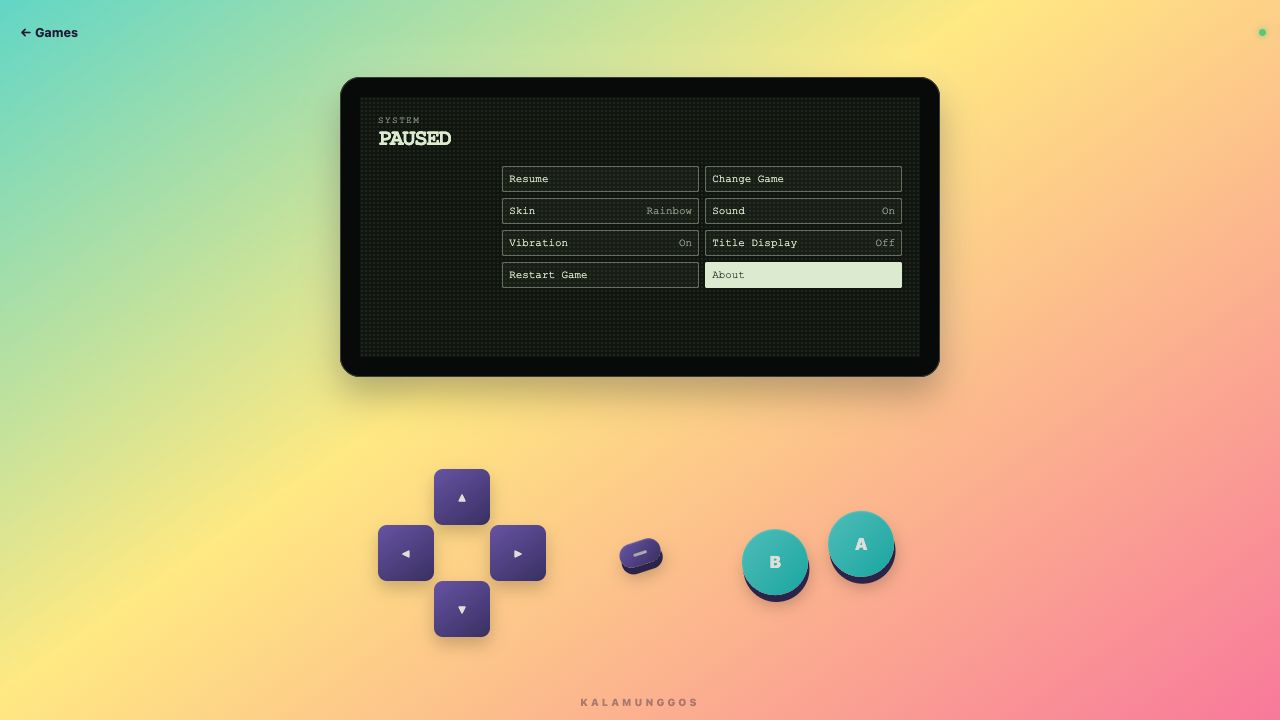
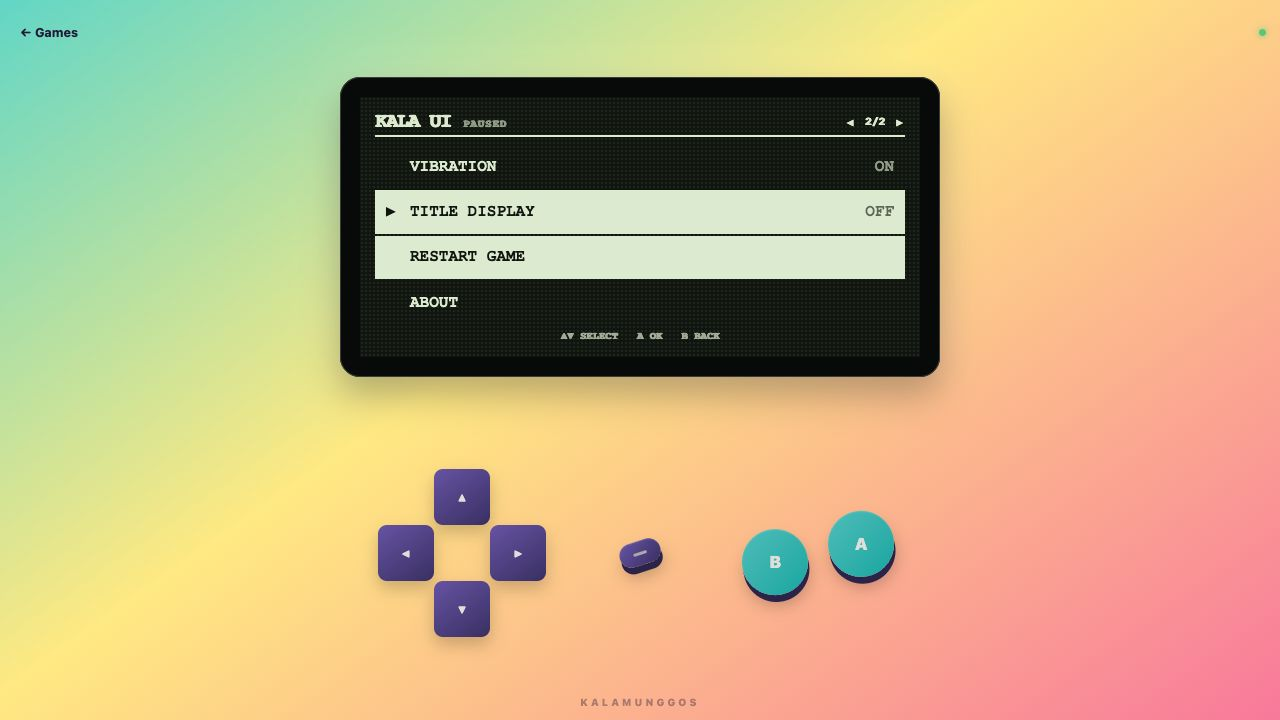
Make Kala UI cartridge-menu readable

Changed region(s): [[0.2812, 0.1528, 0.7188, 0.4278], [0.4375, 0.4583, 0.5625, 0.4889], [0.6562, 0.1528, 0.6875, 0.1833]]

diff --git a/src/main.ts b/src/main.ts
@@ -14,6 +14,9 @@ let animationFrame = 0;
 let lastGameFrame = 0;
 const heldButtons = new Set<ButtonName>();
 const releaseTimers = new Map<ButtonName, number>();
+const menuPageSize = 4;
+let selectedGameIndex = 0;
+let selectedMenuIndex = 0;
 
 root.innerHTML = `
   <main class="app-shell ${settings.skin === "white" ? "skin-white" : `skin-${settings.skin}`}">
@@ -32,25 +35,30 @@ root.innerHTML = `
             <canvas class="game-screen" width="128" height="64" aria-label="Game display" hidden></canvas>
             <section class="screen-ui game-library" aria-labelledby="library-title">
               <div class="firmware-heading">
-                <p>Kalamunggos</p>
-                <h1 id="library-title">Select game</h1>
+                <p>Kala UI</p>
+                <h1 id="library-title">Game select</h1>
               </div>
               <div class="game-list">
-                ${games.map((game, index) => `<button class="game-card" data-game="${game.id}"><span>0${index + 1}</span><strong>${game.displayName}</strong><small>Play</small></button>`).join("")}
+                ${games.map((game, index) => `<button class="game-card${index === 0 ? " is-selected" : ""}" data-game="${game.id}" aria-current="${index === 0 ? "true" : "false"}"><span class="selection-cursor" aria-hidden="true">▶</span><strong>${game.displayName}</strong></button>`).join("")}
               </div>
+              <p class="control-hint">D-PAD SELECT&nbsp;&nbsp; A PLAY</p>
             </section>
             <section class="screen-ui system-menu" hidden aria-labelledby="menu-title">
-              <div class="menu-heading"><span>System</span><h2 id="menu-title">Paused</h2></div>
+              <div class="menu-heading">
+                <div><h2 id="menu-title">Kala UI</h2><span>Paused</span></div>
+                <div class="page-controls"><button type="button" data-page="-1" aria-label="Previous settings page">◀</button><strong class="menu-page"></strong><button type="button" data-page="1" aria-label="Next settings page">▶</button></div>
+              </div>
               <div class="menu-actions">
                 <button data-action="resume">Resume</button>
                 <button data-action="games">Change Game</button>
-                <button data-action="skin">Skin <span class="skin-name"></span></button>
+                <button data-action="skin">Change Skin <span class="skin-name"></span></button>
                 <button data-action="sound">Sound <span class="sound-state"></span></button>
                 <button data-action="vibration">Vibration <span class="vibration-state"></span></button>
                 <button data-action="title">Title Display <span class="title-state"></span></button>
                 <button data-action="restart">Restart Game</button>
                 <button data-action="about">About</button>
               </div>
+              <p class="control-hint">▲▼ SELECT&nbsp;&nbsp; A OK&nbsp;&nbsp; B BACK</p>
               <section class="about" hidden></section>
             </section>
           </div>
@@ -83,6 +91,10 @@ const canvas = root.querySelector<HTMLCanvasElement>("canvas")!;
 const context = canvas.getContext("2d", { alpha: false })!;
 const menu = root.querySelector<HTMLElement>(".system-menu")!;
 const about = root.querySelector<HTMLElement>(".about")!;
+const gameButtons = [...root.querySelectorAll<HTMLButtonElement>("[data-game]")];
+const menuButtons = [...root.querySelectorAll<HTMLButtonElement>("[data-action]")];
+const menuPage = root.querySelector<HTMLElement>(".menu-page")!;
+const pageButtons = [...root.querySelectorAll<HTMLButtonElement>("[data-page]")];
 
 context.imageSmoothingEnabled = false;
 
@@ -103,6 +115,39 @@ function updateTitle(definition: GameDefinition): void {
   requestAnimationFrame(() => {
     title.classList.toggle("is-scrolling", title.scrollWidth > title.parentElement!.clientWidth);
   });
+}
+
+function wrapSelection(index: number, length: number): number {
+  return (index + length) % length;
+}
+
+function updateGameSelection(): void {
+  gameButtons.forEach((button, index) => {
+    const selected = index === selectedGameIndex;
+    button.classList.toggle("is-selected", selected);
+    button.setAttribute("aria-current", String(selected));
+  });
+}
+
+function updateMenuSelection(): void {
+  const pageIndex = Math.floor(selectedMenuIndex / menuPageSize);
+  const pageStart = pageIndex * menuPageSize;
+  menuButtons.forEach((button, index) => {
+    button.hidden = index < pageStart || index >= pageStart + menuPageSize;
+    const selected = index === selectedMenuIndex;
+    button.classList.toggle("is-selected", selected);
+    button.setAttribute("aria-current", String(selected));
+  });
+  menuPage.textContent = `${pageIndex + 1}/${Math.ceil(menuButtons.length / menuPageSize)}`;
+}
+
+function showMenu(): void {
+  if (!activeGame) return;
+  heldButtons.clear();
+  selectedMenuIndex = 0;
+  about.hidden = true;
+  menu.hidden = false;
+  updateMenuSelection();
 }
 
 function buttonMask(): number {
@@ -166,6 +211,8 @@ function showLibrary(): void {
   titleDisplay.hidden = true;
   backButton.hidden = true;
   library.hidden = false;
+  selectedGameIndex = 0;
+  updateGameSelection();
 }
 
 function setButton(button: ButtonName, pressed: boolean, element?: HTMLElement): void {
@@ -192,28 +239,60 @@ function releaseButton(button: ButtonName, element?: HTMLElement): void {
   }, 50));
 }
 
-root.querySelectorAll<HTMLButtonElement>("[data-game]").forEach((button) => {
-  button.addEventListener("click", () => void launch(getGame(button.dataset.game!)));
+gameButtons.forEach((button, index) => {
+  button.addEventListener("click", () => {
+    selectedGameIndex = index;
+    updateGameSelection();
+    void launch(getGame(button.dataset.game!));
+  });
 });
 
 backButton.addEventListener("click", showLibrary);
-root.querySelector<HTMLButtonElement>(".system-button")!.addEventListener("click", () => {
-  if (!activeGame) return;
-  heldButtons.clear();
-  menu.hidden = false;
-});
+root.querySelector<HTMLButtonElement>(".system-button")!.addEventListener("click", showMenu);
+
+function handleKalaInput(button: ButtonName): boolean {
+  if (!about.hidden) {
+    if (button === "a" || button === "b") about.hidden = true;
+    return true;
+  }
+  if (!library.hidden) {
+    if (button === "up" || button === "left") selectedGameIndex = wrapSelection(selectedGameIndex - 1, gameButtons.length);
+    if (button === "down" || button === "right") selectedGameIndex = wrapSelection(selectedGameIndex + 1, gameButtons.length);
+    if (button === "a") gameButtons[selectedGameIndex].click();
+    updateGameSelection();
+    return true;
+  }
+  if (!menu.hidden) {
+    if (button === "up" || button === "left") selectedMenuIndex = wrapSelection(selectedMenuIndex - 1, menuButtons.length);
+    if (button === "down" || button === "right") selectedMenuIndex = wrapSelection(selectedMenuIndex + 1, menuButtons.length);
+    if (button === "a") menuButtons[selectedMenuIndex].click();
+    if (button === "b") menu.hidden = true;
+    updateMenuSelection();
+    return true;
+  }
+  return false;
+}
 
 root.querySelectorAll<HTMLButtonElement>("[data-button]").forEach((button) => {
   const name = button.dataset.button as ButtonName;
   button.addEventListener("pointerdown", (event) => {
     event.preventDefault();
     button.setPointerCapture(event.pointerId);
+    if (handleKalaInput(name)) {
+      button.classList.add("is-pressed");
+      if (settings.vibration && "vibrate" in navigator) navigator.vibrate(12);
+      return;
+    }
     setButton(name, true, button);
   });
   for (const eventName of ["pointerup", "pointercancel", "lostpointercapture"] as const) {
     button.addEventListener(eventName, () => releaseButton(name, button));
   }
-  button.addEventListener("click", () => { setButton(name, true, button); releaseButton(name, button); });
+  button.addEventListener("click", (event) => {
+    if (event.detail !== 0) return;
+    if (!handleKalaInput(name)) setButton(name, true, button);
+    releaseButton(name, button);
+  });
 });
 
 const keyboardMap: Record<string, ButtonName> = {
@@ -222,10 +301,14 @@ const keyboardMap: Record<string, ButtonName> = {
 };
 window.addEventListener("keydown", (event) => {
   const button = keyboardMap[event.key];
-  if (button) { event.preventDefault(); setButton(button, true); }
-  if (event.key === "Escape" && activeGame && menu.hidden) {
-    heldButtons.clear();
-    menu.hidden = false;
+  if (button) {
+    event.preventDefault();
+    if (!event.repeat && !handleKalaInput(button)) setButton(button, true);
+  }
+  if (event.key === "Escape" && activeGame) {
+    if (!about.hidden) about.hidden = true;
+    else if (menu.hidden) showMenu();
+    else menu.hidden = true;
   }
 });
 window.addEventListener("keyup", (event) => {
@@ -238,9 +321,19 @@ window.addEventListener("blur", () => {
   heldButtons.clear();
 });
 
+pageButtons.forEach((button) => {
+  button.addEventListener("click", () => {
+    selectedMenuIndex = wrapSelection(selectedMenuIndex + Number(button.dataset.page) * menuPageSize, menuButtons.length);
+    updateMenuSelection();
+  });
+});
+
 menu.addEventListener("click", (event) => {
-  const action = (event.target as HTMLElement).closest<HTMLButtonElement>("[data-action]")?.dataset.action;
+  const actionButton = (event.target as HTMLElement).closest<HTMLButtonElement>("[data-action]");
+  const action = actionButton?.dataset.action;
   if (!action) return;
+  selectedMenuIndex = menuButtons.indexOf(actionButton);
+  updateMenuSelection();
   if (action === "resume") menu.hidden = true;
   if (action === "games") showLibrary();
   if (action === "skin") { settings = { ...settings, skin: nextSkin(settings.skin) }; updateSettingsUi(); }

diff --git a/src/styles.css b/src/styles.css
@@ -108,52 +108,67 @@ button { font: inherit; }
   background-image: radial-gradient(circle, rgba(220,235,207,.075) .75px, transparent .8px);
   background-size: 4px 4px;
   font-family: "Courier New", ui-monospace, monospace;
+  font-weight: 900;
+  text-transform: uppercase;
+  text-shadow: 1px 0 currentColor;
 }
 
-.game-library { display: grid; grid-template-columns: .7fr 1.3fr; gap: clamp(8px, 2.5vw, 22px); align-items: center; padding: clamp(10px, 3.5vw, 26px); }
-.firmware-heading p { margin: 0 0 4px; font-size: clamp(.42rem, 1.6vw, .68rem); font-weight: 700; letter-spacing: .16em; text-transform: uppercase; opacity: .58; }
-.firmware-heading h1 { margin: 0; font-size: clamp(.8rem, 4vw, 1.7rem); line-height: .9; letter-spacing: -.06em; text-transform: uppercase; }
-.game-list { display: grid; gap: clamp(4px, 1.2vw, 8px); }
+.game-library { display: grid; grid-template-rows: auto 1fr auto; gap: clamp(5px, 1.4vw, 10px); padding: clamp(8px, 2.4vw, 18px); }
+.firmware-heading { display: flex; align-items: baseline; justify-content: space-between; gap: 10px; border-bottom: 2px solid currentColor; }
+.firmware-heading p { margin: 0 0 3px; font-size: clamp(.55rem, 1.7vw, .75rem); letter-spacing: .12em; opacity: .72; }
+.firmware-heading h1 { margin: 0 0 3px; font-size: clamp(.9rem, 3.5vw, 1.5rem); line-height: 1; letter-spacing: -.07em; }
+.game-list { display: grid; gap: clamp(3px, .9vw, 7px); align-content: center; }
 .game-card {
   display: grid;
-  grid-template-columns: auto 1fr auto;
+  grid-template-columns: 1.25em 1fr;
   align-items: center;
-  gap: clamp(5px, 1.4vw, 10px);
+  gap: clamp(4px, 1vw, 8px);
   min-width: 0;
-  padding: clamp(5px, 1.4vw, 10px);
-  border: 1px solid rgba(220,235,207,.42);
-  border-radius: 2px;
+  min-height: clamp(28px, 6vw, 42px);
+  padding: clamp(3px, .8vw, 6px) clamp(5px, 1.2vw, 9px);
+  border: 2px solid transparent;
   color: inherit;
-  background: rgba(220,235,207,.05);
+  background: transparent;
   text-align: left;
   cursor: pointer;
 }
-.game-card:hover, .game-card:focus-visible { color: #10150f; background: #dcebcf; outline: none; }
-.game-card span, .game-card small { font-size: clamp(.4rem, 1.35vw, .62rem); opacity: .6; }
-.game-card strong { overflow: hidden; font-size: clamp(.48rem, 1.75vw, .78rem); text-overflow: ellipsis; white-space: nowrap; }
+.game-card:hover, .game-card:focus-visible, .game-card.is-selected { color: #10150f; background: #dcebcf; outline: none; }
+.selection-cursor { font-size: clamp(.7rem, 2.3vw, 1rem); visibility: hidden; }
+.game-card.is-selected .selection-cursor { visibility: visible; }
+.game-card strong { overflow: hidden; font-size: clamp(.72rem, 2.5vw, 1.12rem); line-height: 1; letter-spacing: -.04em; text-overflow: ellipsis; white-space: nowrap; }
+.control-hint { margin: 0; font-size: clamp(.46rem, 1.35vw, .63rem); line-height: 1; letter-spacing: .03em; text-align: center; opacity: .7; }
 
-.system-menu { display: grid; grid-template-columns: .42fr 1.58fr; gap: clamp(6px, 2vw, 18px); padding: clamp(7px, 2.2vw, 18px); }
-.menu-heading { align-self: start; }
-.menu-heading span { display: block; margin-bottom: 3px; font-size: clamp(.38rem, 1.2vw, .58rem); letter-spacing: .16em; text-transform: uppercase; opacity: .58; }
-.menu-heading h2 { margin: 0; font-size: clamp(.7rem, 3vw, 1.4rem); line-height: .9; letter-spacing: -.06em; text-transform: uppercase; }
-.menu-actions { display: grid; grid-template-columns: 1fr 1fr; gap: clamp(3px, .8vw, 6px); align-content: center; min-width: 0; }
+.system-menu { display: grid; grid-template-rows: auto 1fr auto; gap: clamp(4px, 1vw, 8px); padding: clamp(7px, 2vw, 15px); }
+.menu-heading { display: flex; align-items: center; justify-content: space-between; gap: 8px; padding-bottom: 3px; border-bottom: 2px solid currentColor; }
+.menu-heading > div:first-child { display: flex; align-items: baseline; gap: clamp(6px, 1.5vw, 12px); }
+.menu-heading span { font-size: clamp(.5rem, 1.4vw, .66rem); letter-spacing: .1em; opacity: .62; }
+.menu-heading h2 { margin: 0; font-size: clamp(.85rem, 2.8vw, 1.25rem); line-height: 1; letter-spacing: -.06em; }
+.page-controls { display: flex; align-items: center; gap: 6px; }
+.page-controls button { padding: 0 2px; border: 0; color: inherit; background: transparent; font-size: clamp(.55rem, 1.5vw, .7rem); cursor: pointer; }
+.menu-page { min-width: 2.4em; font-size: clamp(.55rem, 1.5vw, .7rem); text-align: center; }
+.menu-actions { display: grid; grid-template-rows: repeat(4, 1fr); gap: 2px; min-height: 0; }
 .menu-actions button {
-  display: flex;
-  justify-content: space-between;
+  display: grid;
+  grid-template-columns: 1.25em 1fr auto;
+  align-items: center;
   gap: 4px;
   min-width: 0;
-  padding: clamp(3px, .8vw, 6px);
-  border: 1px solid rgba(220,235,207,.36);
-  border-radius: 2px;
+  padding: 1px clamp(5px, 1.2vw, 9px);
+  border: 2px solid transparent;
   color: inherit;
-  background: rgba(220,235,207,.04);
-  font-size: clamp(.5rem, 1.45vw, .68rem);
+  background: transparent;
+  font-size: clamp(.68rem, 2.25vw, 1rem);
+  font-weight: 900;
+  line-height: 1;
+  text-transform: uppercase;
   text-align: left;
   cursor: pointer;
 }
-.menu-actions button:hover, .menu-actions button:focus-visible { color: #10150f; background: #dcebcf; outline: none; }
-.menu-actions button span { flex: none; opacity: .58; text-transform: capitalize; }
-.about { position: absolute; inset: clamp(5px, 1.5vw, 12px); overflow: auto; padding: clamp(8px, 2vw, 16px); color: #10150f; background: #dcebcf; font-size: clamp(.42rem, 1.4vw, .66rem); line-height: 1.25; }
+.menu-actions button::before { content: "▶"; visibility: hidden; }
+.menu-actions button:hover, .menu-actions button:focus-visible, .menu-actions button.is-selected { color: #10150f; background: #dcebcf; outline: none; }
+.menu-actions button.is-selected::before { visibility: visible; }
+.menu-actions button span { opacity: .62; }
+.about { position: absolute; inset: clamp(5px, 1.5vw, 12px); overflow: auto; padding: clamp(8px, 2vw, 16px); color: #10150f; background: #dcebcf; font-size: clamp(.65rem, 2vw, .86rem); line-height: 1.25; text-transform: none; }
 .about p { margin: 3px 0; }
 .about-close { position: sticky; top: 0; float: right; border: 0; color: #10150f; background: transparent; font-weight: 900; cursor: pointer; }
 
@@ -188,8 +203,6 @@ button { font: inherit; }
 
 @media (max-width: 430px) {
   .console-body { grid-template-rows: minmax(0, 1fr) minmax(210px, 42vh); }
-  .game-library { grid-template-columns: .62fr 1.38fr; }
-  .game-card small { display: none; }
   .dpad { grid-template-columns: repeat(3, 48px); grid-template-rows: repeat(3, 48px); }
   .dpad button { min-width: 48px; min-height: 48px; }
   .action-buttons { gap: 13px; }
